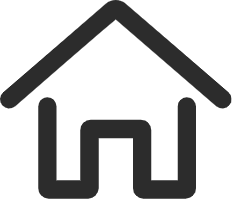
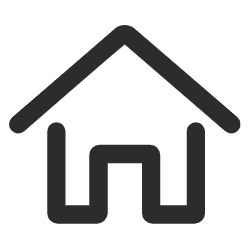
添加页面和图标

Changed region(s): [[0.0, 0.0, 1.0, 1.0]]

diff --git a/pages/device/device.vue b/pages/device/device.vue
@@ -1,0 +1,133 @@
+<template>
+	<view class="container">
+
+		<!-- 第一行：设备动态数量 -->
+		<view class="stats-row">
+			<view class="stat-card" v-for="(stat, index) in deviceStats" :key="index">
+				<text class="stat-value">{{ stat.value }}</text>
+				<text class="stat-label">{{ stat.label }}</text>
+			</view>
+		</view>
+
+		<uni-section title="设备列表" type="square">
+			<uni-search-bar placeholder="快捷搜索" @confirm="search"></uni-search-bar>
+		</uni-section>
+
+		<uni-card v-for="(device, index) in devices" @click="open(device)"
+		 :title="device.name" :sub-title="device.id" :extra="device.online?'在线':'离线'"
+			thumbnail="/static/device.png">
+			<device-values
+			 @property-click="onPropertyClick(device, $event)"
+			 :device="device.id"
+			 :product="device.product_id"
+			 type="simple"></device-values>
+		</uni-card>
+
+	</view>
+
+</template>
+
+<script>
+	export default {
+		data() {
+			return {
+				
+				// 设备统计数据
+				deviceStats: [{
+						value: '12',
+						label: '在线设备',
+						trend: 'up',
+						trendIcon: '/static/icon_stats/trend-up.png'
+					},
+					{
+						value: '3',
+						label: '离线设备',
+						trend: 'down',
+						trendIcon: '/static/icon_stats/trend-down.png'
+					},
+					{
+						value: '5',
+						label: '告警设备',
+						trend: 'up',
+						trendIcon: '/static/icon_stats/trend-up.png'
+					}
+				],
+				// 搜索关键词
+				searchKeyword: '',
+				// 当前页面
+				currentPage: 'stats',
+				// 模拟设备数据
+				devices: [{
+						id: "123123",
+						name: '发电设备-003',
+						online: true,
+						switchStatus: 'on',
+						updateTime: '2024-01-20 14:30:25'
+					},
+					{
+						id: "123124",
+						name: '温控设备-004',
+						switchStatus: 'off',
+						updateTime: '2024-01-20 14:28:10'
+					},
+					{
+						id: "123125",
+						name: '水泵设备-005',
+						online: true,
+						switchStatus: 'on',
+						updateTime: '2024-01-20 14:25:45'
+					},
+					{
+						id: "123126",
+						name: '控制设备-006',
+						switchStatus: 'off',
+						updateTime: '2024-01-20 13:45:30'
+					}
+				]
+			}
+		},
+		computed: {
+			// 过滤后的数据
+			filteredData() {
+				if (!this.searchKeyword) {
+					return this.deviceData
+				}
+
+				const keyword = this.searchKeyword.toLowerCase()
+				return this.deviceData.filter(item =>
+					item.name.toLowerCase().includes(keyword) ||
+					item.waterLevel.toString().includes(keyword) ||
+					item.power.toString().includes(keyword) ||
+					item.status.toLowerCase().includes(keyword)
+				)
+			}
+		},
+		onPullDownRefresh() {
+			uni.stopPullDownRefresh()
+			//TODO 加载
+		},
+		onReachBottom() {
+			console.log("bottom")
+			//TODO 加载更多
+		},
+		mounted() {
+			//TODO 加载
+		},
+		methods: {
+			open(device) {
+				uni.navigateTo({
+					url: "/pages/device/detail?id="+device.id,
+				})
+			},
+			
+			onPropertyClick(device, property) {
+				//alert(JSON.stringify(property))
+			},
+			
+		}
+	}
+</script>
+
+<style scoped>
+	
+</style>

diff --git a/components/device-values/device-values.vue b/components/device-values/device-values.vue
@@ -1,0 +1,66 @@
+<template>
+	<view>
+		<uni-grid :column="3" :show-border="false" :square="false">
+			<uni-grid-item v-for="(p, k) in properties" :key="k" @click="open(p)">
+				<view>{{p.label}}</view>
+				<view>1.33{{p.unit}}</view>
+			</uni-grid-item>
+		</uni-grid>
+	</view>
+</template>
+
+<script>
+	export default {
+		name:"device-values",
+		props: {
+			device: String,
+			product: String,
+			type: String,
+		},
+		data() {
+			return {
+				properties: [{
+						name: "temperature",
+						label: "温度",
+						unit: "℃"
+					},
+					{
+						name: "humidity",
+						label: "湿度",
+						unit: "%RH"
+					},
+					{
+						name: "voltage",
+						label: "电压",
+						unit: "V"
+					},
+					{
+						name: "current",
+						label: "电流",
+						unit: "A"
+					},
+					{
+						name: "power",
+						label: "功率",
+						unit: "kWh"
+					}
+				],
+				
+			};
+		},
+		mounted(){
+			console.log(this.device, this.product)
+			//TODO 1、查询属性表，防止并发，重复
+			//TODO 2、查询实时状态
+		},
+		methods:{
+			open(prop){
+				this.$emit("property-click", prop)
+			}
+		}
+	}
+</script>
+
+<style lang="scss">
+
+</style>

diff --git a/pages/device/detail.vue b/pages/device/detail.vue
@@ -1,25 +1,22 @@
 <template>
-	<view class="container">
-
-
+	<view>
+		
 	</view>
-
 </template>
 
 <script>
 	export default {
 		data() {
 			return {
+				
 			}
 		},
-		mounted() {
-			//TODO 加载
-		},
 		methods: {
+			
 		}
 	}
 </script>
 
-<style scoped>
-	
+<style>
+
 </style>

diff --git a/pages/message/message.vue b/pages/message/message.vue
@@ -1,25 +1,22 @@
 <template>
-	<view class="container">
-
-
+	<view>
+		
 	</view>
-
 </template>
 
 <script>
 	export default {
 		data() {
 			return {
+				
 			}
 		},
-		mounted() {
-			//TODO 加载
-		},
 		methods: {
+			
 		}
 	}
 </script>
 
-<style scoped>
-	
+<style>
+
 </style>

diff --git a/pages/login/login.vue b/pages/login/login.vue
@@ -118,7 +118,7 @@ export default {
         // 跳转到首页
         setTimeout(() => {
           uni.reLaunch({
-            url: '/pages/stats/stats',
+            url: '/pages/device/device',
             success: () => {
               console.log('跳转成功')
             },
